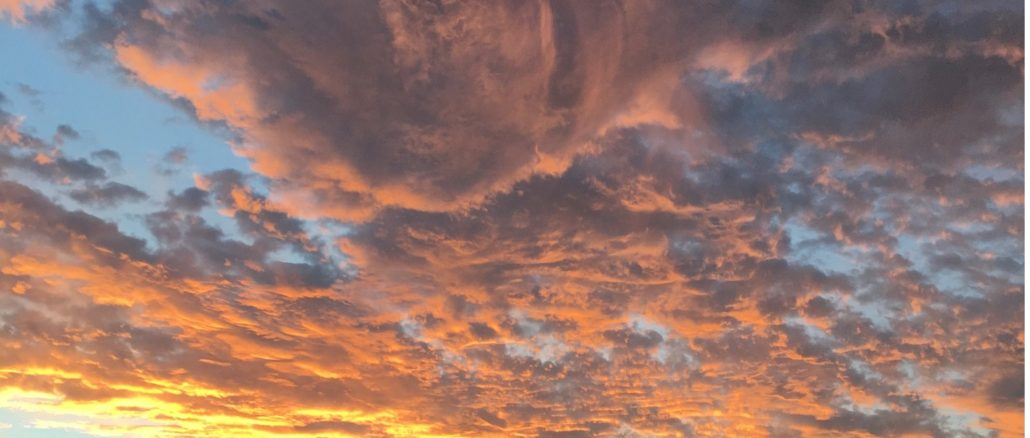
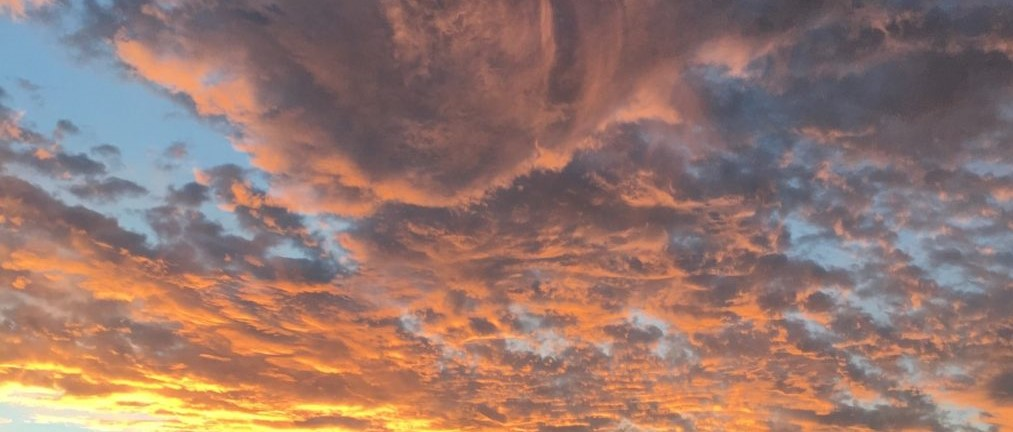
added background picture

diff --git a/src/App.js b/src/App.js
@@ -5,7 +5,7 @@ import Nav from './components/Nav';
 
 function App() {
   return (
-    <div>
+    <div classname= "this">
       <Nav></Nav>
       <main>
         <About></About>

diff --git a/src/App.css b/src/App.css
@@ -1,3 +1,9 @@
+body {
+  background-image: url("./assets/cloud-portfolio.jpg");
+  background-size: cover;
+  background-repeat: no-repeat;
+}
+
 .App {
   text-align: center;
 }
